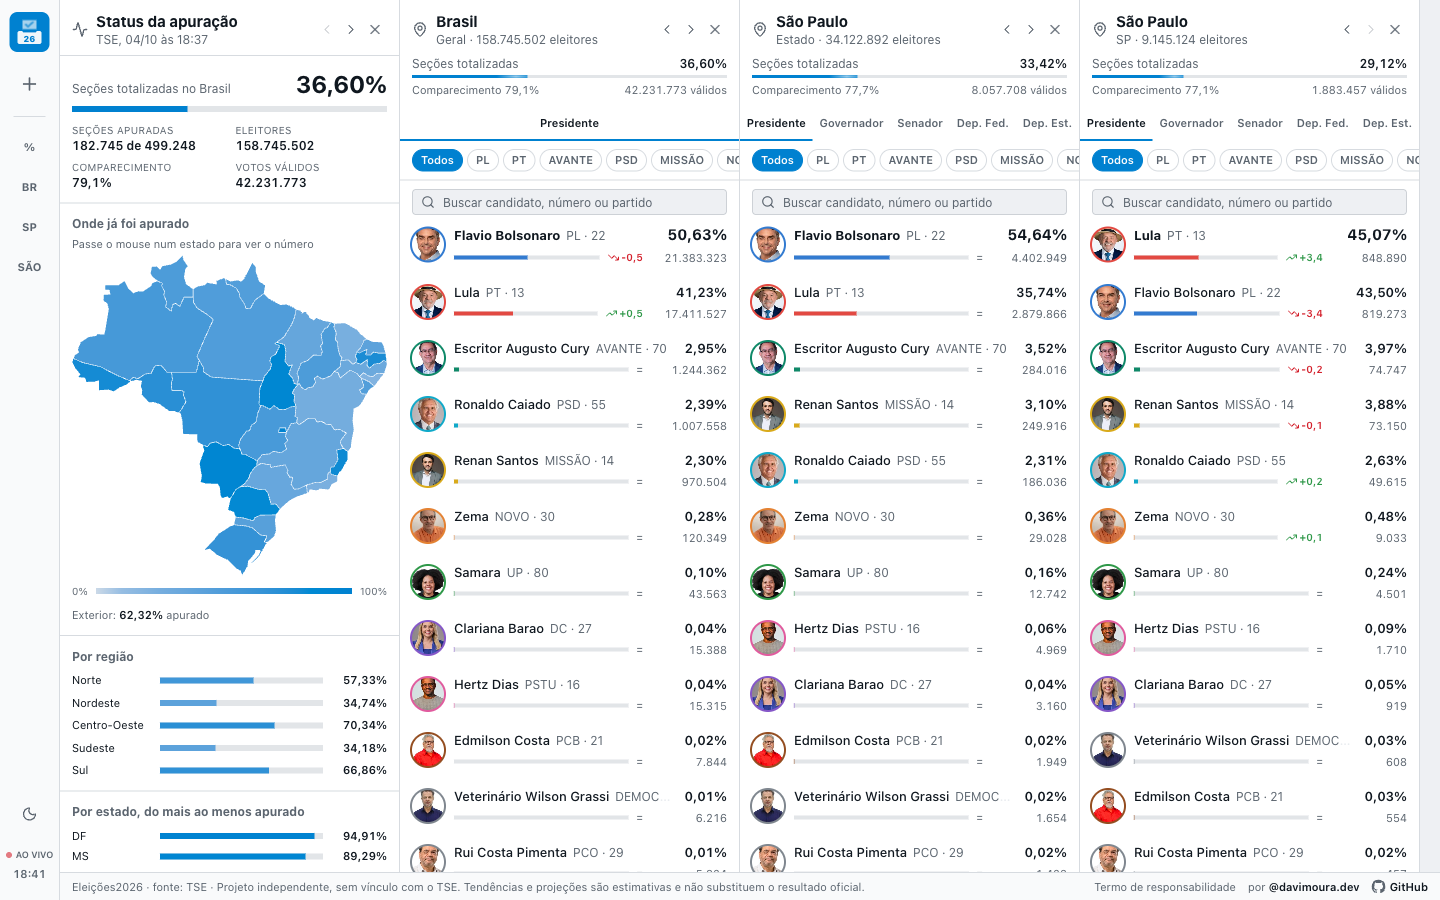
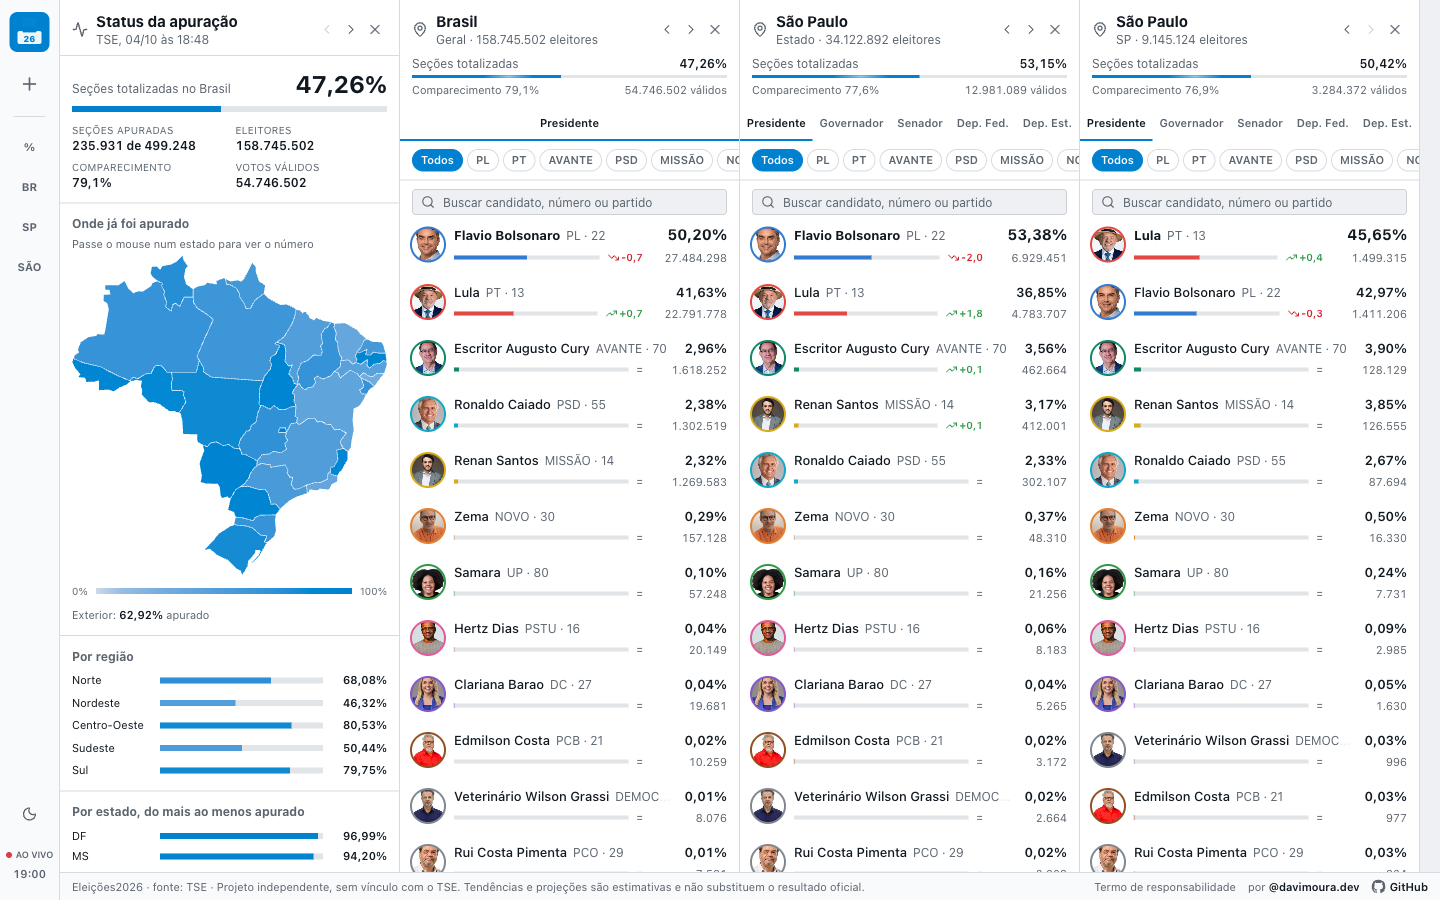
Atualiza as telas do README com a apuração perto da metade
Prints novos com 47% apurado e um da evolução e do mapa de estados da disputa para Presidente.

diff --git a/README.md b/README.md
@@ -96,7 +96,10 @@ A versão de 2024 deste projeto errava a divisão em uma de cada três cidades.
 ### Evolução e atualizações
 
 O gráfico de evolução mostra a porcentagem de cada candidato conforme a contagem avança.
-Embaixo dele fica um resumo do que aconteceu: quando a apuração passou de 10%, 25%, 50% e assim por diante, e quando alguém passou outro candidato.
+Na coluna do Brasil ainda tem o mapa dos estados, pintado com a cor de quem tá na frente em cada um - quanto mais forte, mais apurado.
+Embaixo fica um resumo do que aconteceu: quando a apuração passou de 10%, 25%, 50% e assim por diante, e quando alguém passou outro candidato.
+
+<img src="docs/screenshots/evolucao.png" alt="Tendências, evolução e estados da disputa para Presidente" width="340">
 
 ### Modo claro e ao vivo
 
